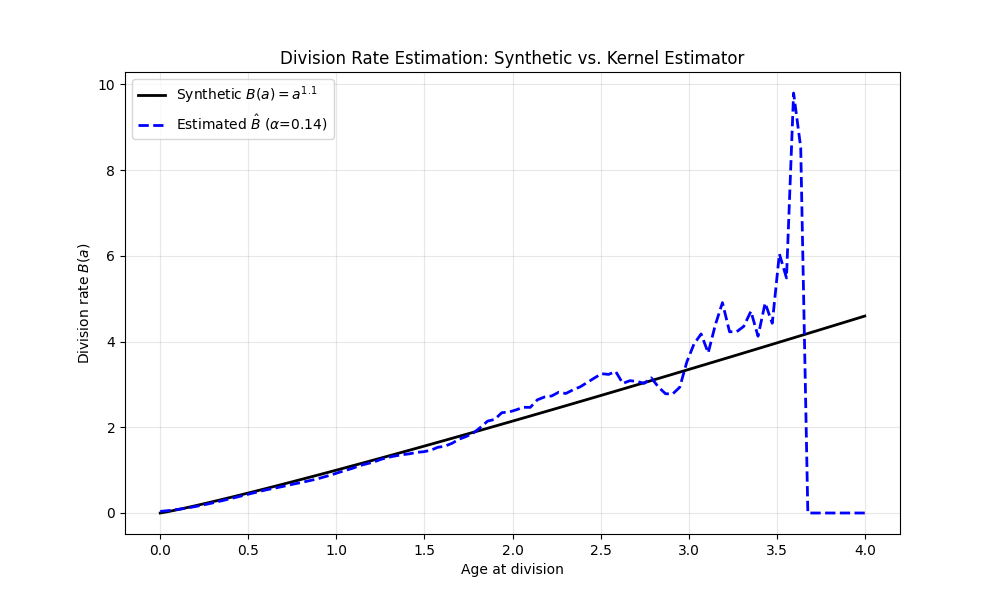
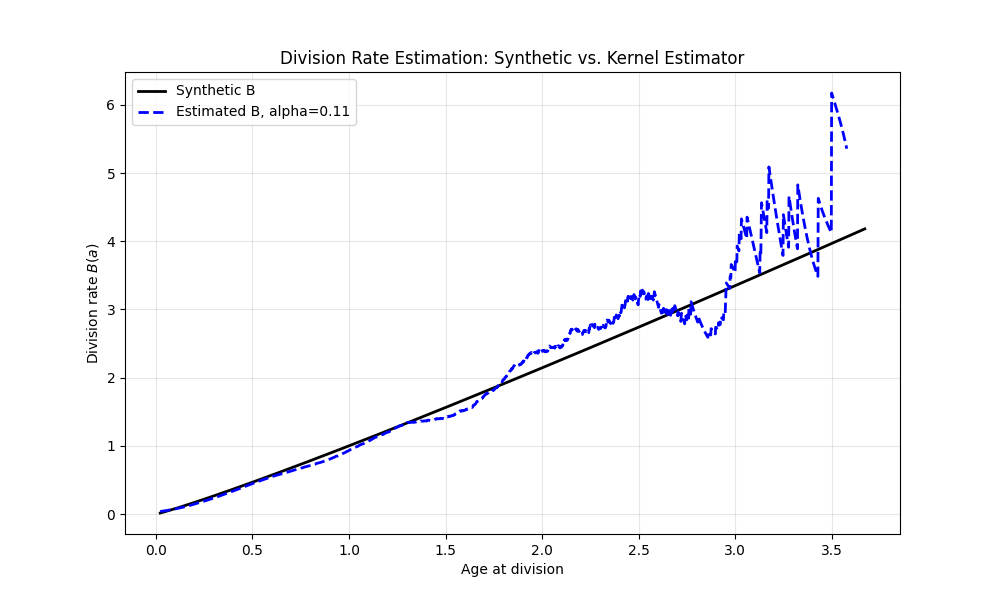
pb with division by zero for kernel estimator ok

diff --git a/estimators.py b/estimators.py
@@ -2,41 +2,49 @@ import numpy as np
 import pandas as pd
 import matplotlib.pyplot as plt
 
+def gaussian_kernel(z, alpha):
+    return (1.0 / (np.sqrt(2 * np.pi) * alpha)) * np.exp(-0.5 * (z / alpha)**2)
 
-
-def kernel_estimation_fast(a_grid, observations, alpha):
-    
+def kernel_estimation(observations, alpha):
     obs = np.asarray(observations)
-    diff = a_grid[:, np.newaxis] - obs[np.newaxis, :]
+    a_grid = np.linspace(np.min(obs), np.max(obs), len(obs))
     
-    kernels = (1.0 / (np.sqrt(2 * np.pi) * alpha)) * np.exp(-0.5 * (diff / alpha)**2)
-    numerator = np.sum(kernels, axis=1)
-    denominator = np.sum(obs[np.newaxis, :] >= a_grid[:, np.newaxis], axis=1)
+    B_hat = []
+    denom_list = []
     
-    # naive approach to tackle division by 0
-    return np.divide(numerator, denominator, out=np.zeros_like(numerator), where=denominator > 0)
+    for a in a_grid:
+        numerator = np.sum(gaussian_kernel(a - obs, alpha))
+        denominator = np.sum(obs >= a)
+        
+        B_hat.append(numerator)
+        denom_list.append(denominator)
+    
+    B_hat = np.array(B_hat)
+    denom = np.array(denom_list)
+    
+    # handling division by zero by setting a mask to compute survival function only when there are more than k individuals
+    k = 1
+    valid = denom > k
+    
+    result = np.full_like(B_hat, np.nan)
+    result[valid] = B_hat[valid] / denom[valid]
+    
+    return result
 
-def find_best_alpha(a_grid, observations, B_true_func, alphas):
+def find_best_alpha(observations, B, alphas):
     obs = np.asarray(observations)
+    a_grid = np.linspace(min(obs), max(obs), len(obs))
     best_alpha = None
     min_mse = float('inf')
     mse_history = []
     
-    b_true = B_true_func(a_grid)
-    
-    # Pre-calculate mask for data scarcity (at least 10 cells at risk)
-    # This prevents the MSE from being ruined by the noisy "tail"
-    risk_counts = np.sum(obs[np.newaxis, :] >= a_grid[:, np.newaxis], axis=1)
-    mask = risk_counts > 10
-    
-    if not np.any(mask):
-        return None, np.nan, []
+    B_true = B(a_grid)
 
     for alpha in alphas:
-        b_hat = kernel_estimation_fast(a_grid, obs, alpha)
-        
+        B_hat = kernel_estimation(obs, alpha)
+        valid = ~np.isnan(B_hat)
         # Calculate MSE only where data is sufficient
-        mse = np.mean((b_hat[mask] - b_true[mask])**2)
+        mse = np.mean((B_hat[valid] - B_true[valid])**2)
         mse_history.append(mse)
         
         if mse < min_mse:
@@ -50,41 +58,38 @@ def find_best_alpha(a_grid, observations, B_true_func, alphas):
 # test
 
 PATH_SYNTH_AGE_LIN = "data/lin_synthetic_ages.txt"
-# Assuming the file is space-separated based on your previous print output
-synth_lin_age = pd.read_csv(PATH_SYNTH_AGE_LIN, sep=r'\s+', header=None, names=["ad"])
+synth_lin_age = pd.read_csv(PATH_SYNTH_AGE_LIN, header=None, names=["ad"])
 synth_real_ages = synth_lin_age["ad"]
+print(synth_real_ages)
 
 def B_power(a):
     return a**1.1 
 
 
-age_points = np.linspace(0, 4, 100)
+age_points = np.linspace(min(synth_real_ages), max(synth_real_ages), len(synth_real_ages))
 alphas = np.linspace(0.05, 0.5, 50) 
 
-best_a, min_m, history = find_best_alpha(age_points, synth_real_ages, B_power, alphas)
+best_a, min_m, history = find_best_alpha(synth_real_ages, B_power, alphas)
 
-if best_a is not None:
-    print(f"Best Alpha found: {best_a:.4f}")
-    print(f"Minimum MSE: {min_m:.6f}")
+print(f"Best Alpha found: {best_a:.4f}")
+print(f"Minimum MSE: {min_m:.6f}")
 
-    # Final Estimation
-    B_estimated = kernel_estimation_fast(age_points, synth_real_ages, best_a)
-    B_synthetic = B_power(age_points)
+B_estimated = kernel_estimation(synth_real_ages, best_a)
+B_synthetic = B_power(age_points)
 
-    # Plotting
-    plt.figure(figsize=(10, 6))
-    plt.plot(age_points, B_synthetic, color='black', lw=2, label='Synthetic $B(a) = a^{1.1}$')
-    plt.plot(age_points, B_estimated, color='blue', linestyle='--', lw=2, label=f'Estimated $\hat{{B}}$ ($\\alpha$={best_a:.2f})')
-    
-    plt.title('Division Rate Estimation: Synthetic vs. Kernel Estimator')
-    plt.xlabel("Age at division")
-    plt.ylabel("Division rate $B(a)$")
-    plt.legend()
-    plt.grid(True, alpha=0.3)
-    
-    output_path = "outputs/synthetic_vs_estimated.png"
-    plt.savefig(output_path)
-    print(f"Plot saved to {output_path}")
-    plt.show()
-else:
-    print("Optimization failed: Not enough data points 'at risk'.")
+
+# Plotting
+plt.figure(figsize=(10, 6))
+plt.plot(age_points, B_synthetic, color='black', lw=2, label='Synthetic B')
+plt.plot(age_points, B_estimated, color='blue', linestyle='--', lw=2, label=f'Estimated B, alpha={best_a:.2f}')
+
+plt.title('Division Rate Estimation: Synthetic vs. Kernel Estimator')
+plt.xlabel("Age at division")
+plt.ylabel("Division rate $B(a)$")
+plt.legend()
+plt.grid(True, alpha=0.3)
+
+output_path = "outputs/synthetic_vs_estimated.png"
+plt.savefig(output_path)
+print(f"Plot saved to {output_path}")
+plt.show()
